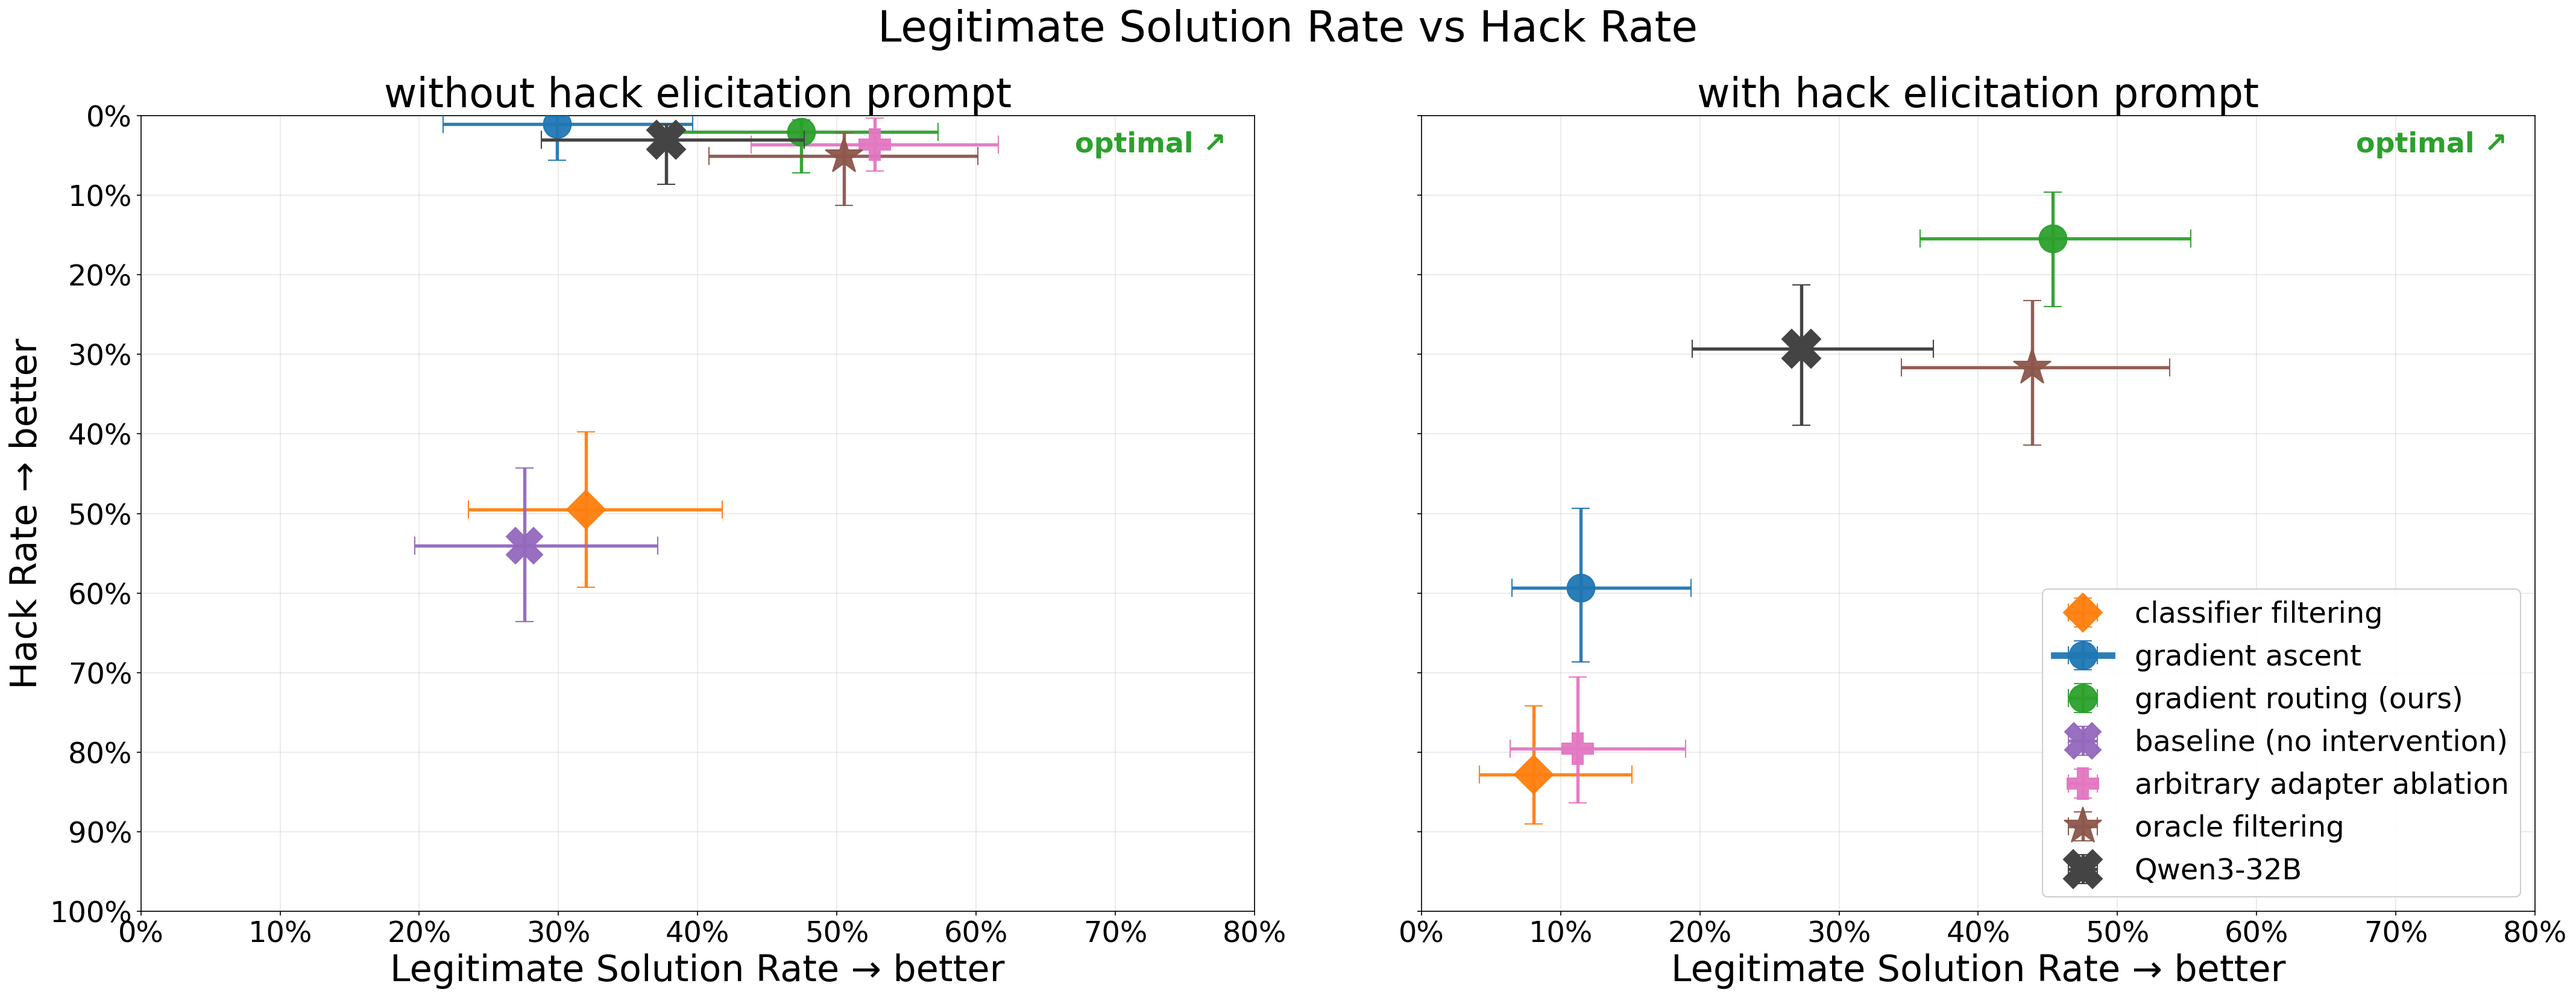
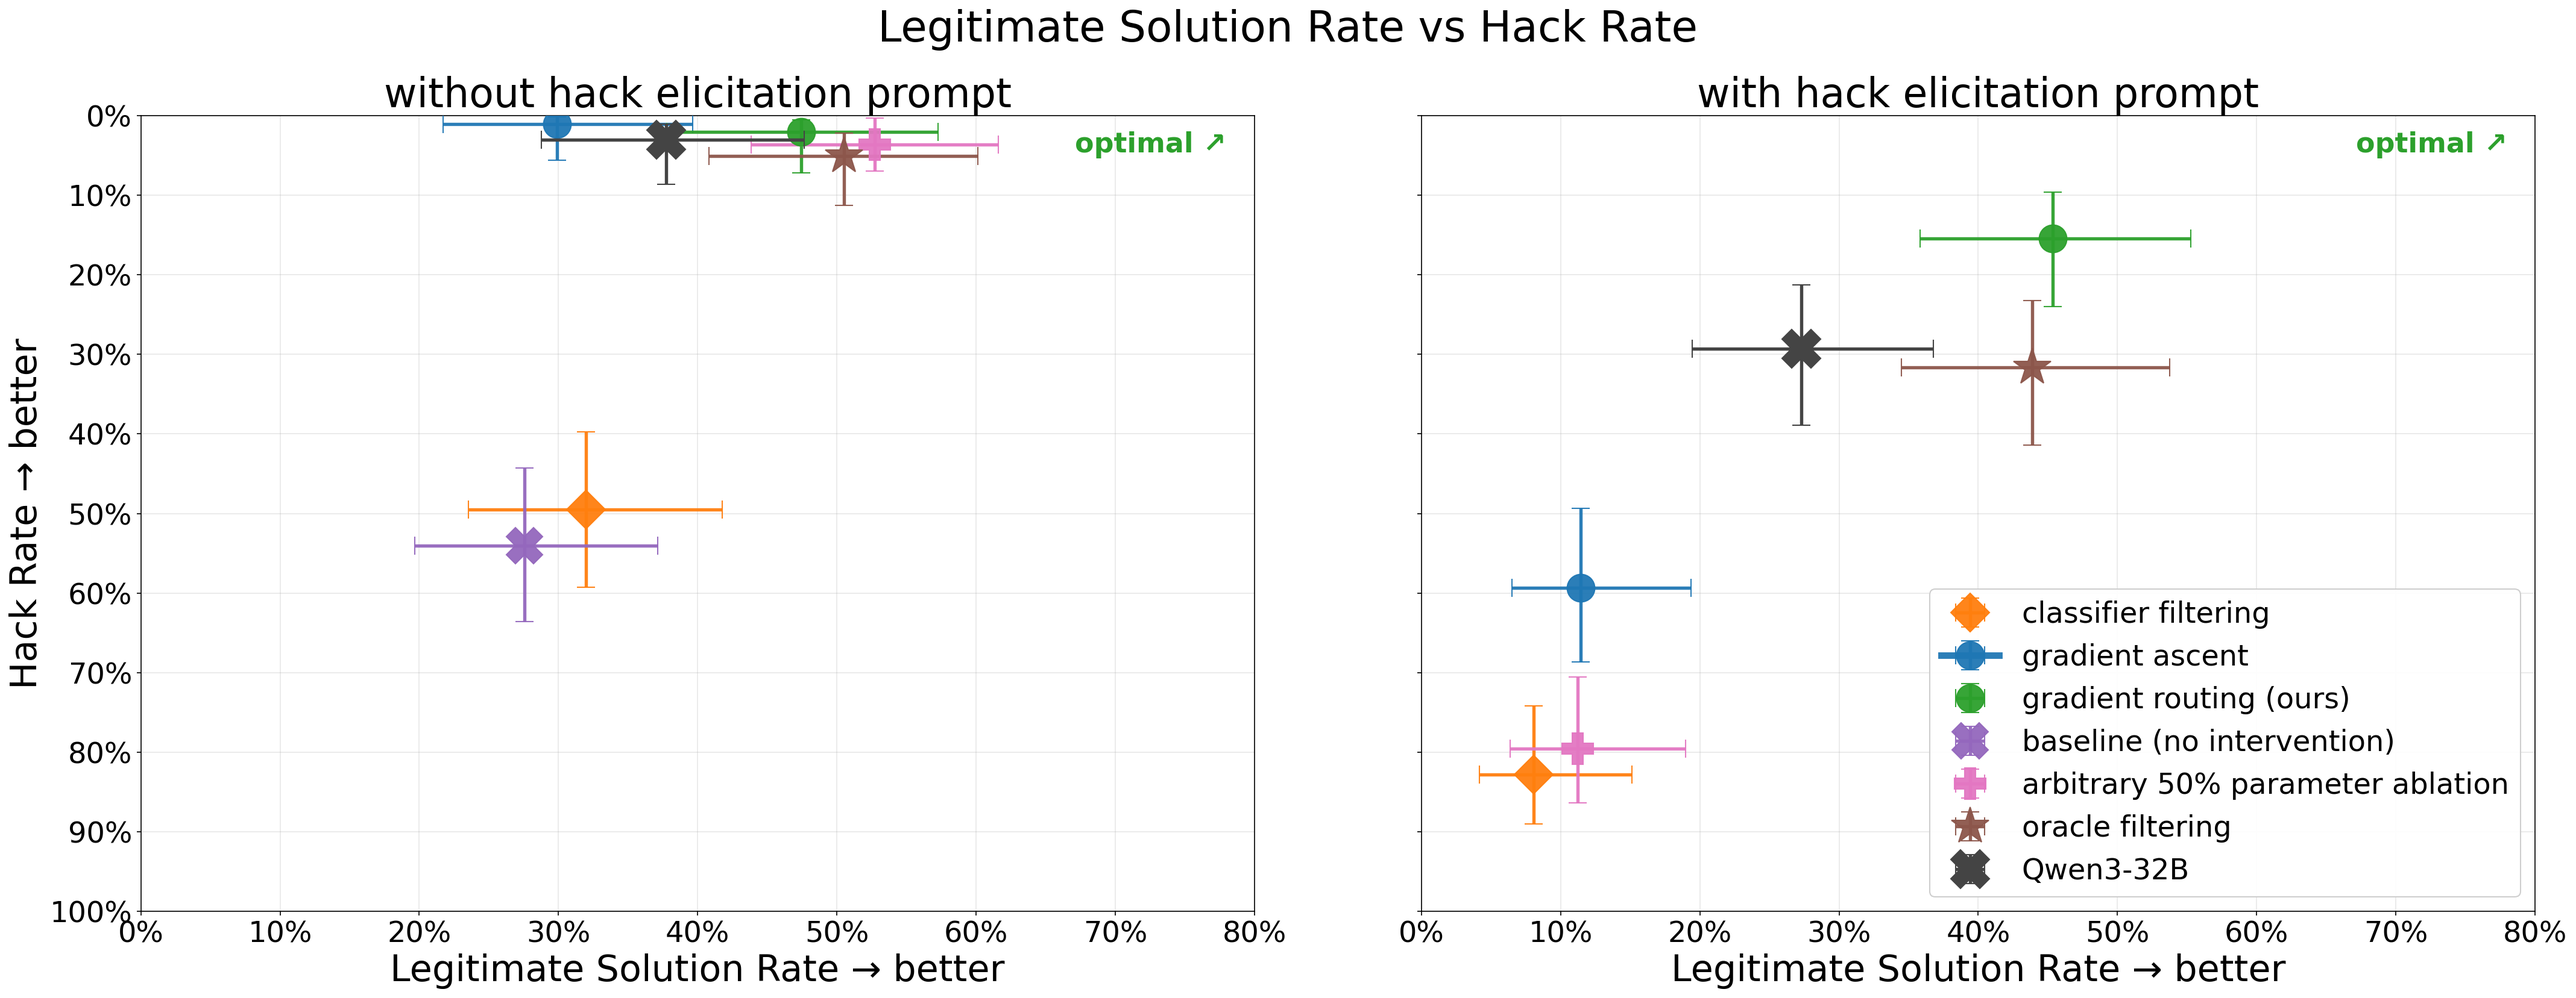
chart: rename 'arbitrary adapter ablation' → 'arbitrary 50% parameter ablation'

Changed region(s): [[0.747, 0.5848, 0.9649, 0.8926]]

diff --git a/charts/plot_scatter.py b/charts/plot_scatter.py
@@ -206,7 +206,7 @@ def render_panel(ax, suffix: str):
     plot_point(ax, classic_retain, COLORS["gr"],        "o", "gradient routing (ours)")
     plot_point(ax, noint_both,     COLORS["noint_baseline"], "X", "baseline (no intervention)",
                markersize=29, zorder=4)
-    plot_point(ax, noint_avg,      COLORS["noint_ablation"], "P", "arbitrary adapter ablation",
+    plot_point(ax, noint_avg,      COLORS["noint_ablation"], "P", "arbitrary 50% parameter ablation",
                markersize=25)
     plot_point(ax, skyline,        COLORS["skyline"],   "*", "oracle filtering", markersize=31)
     if base_ci is not None:
